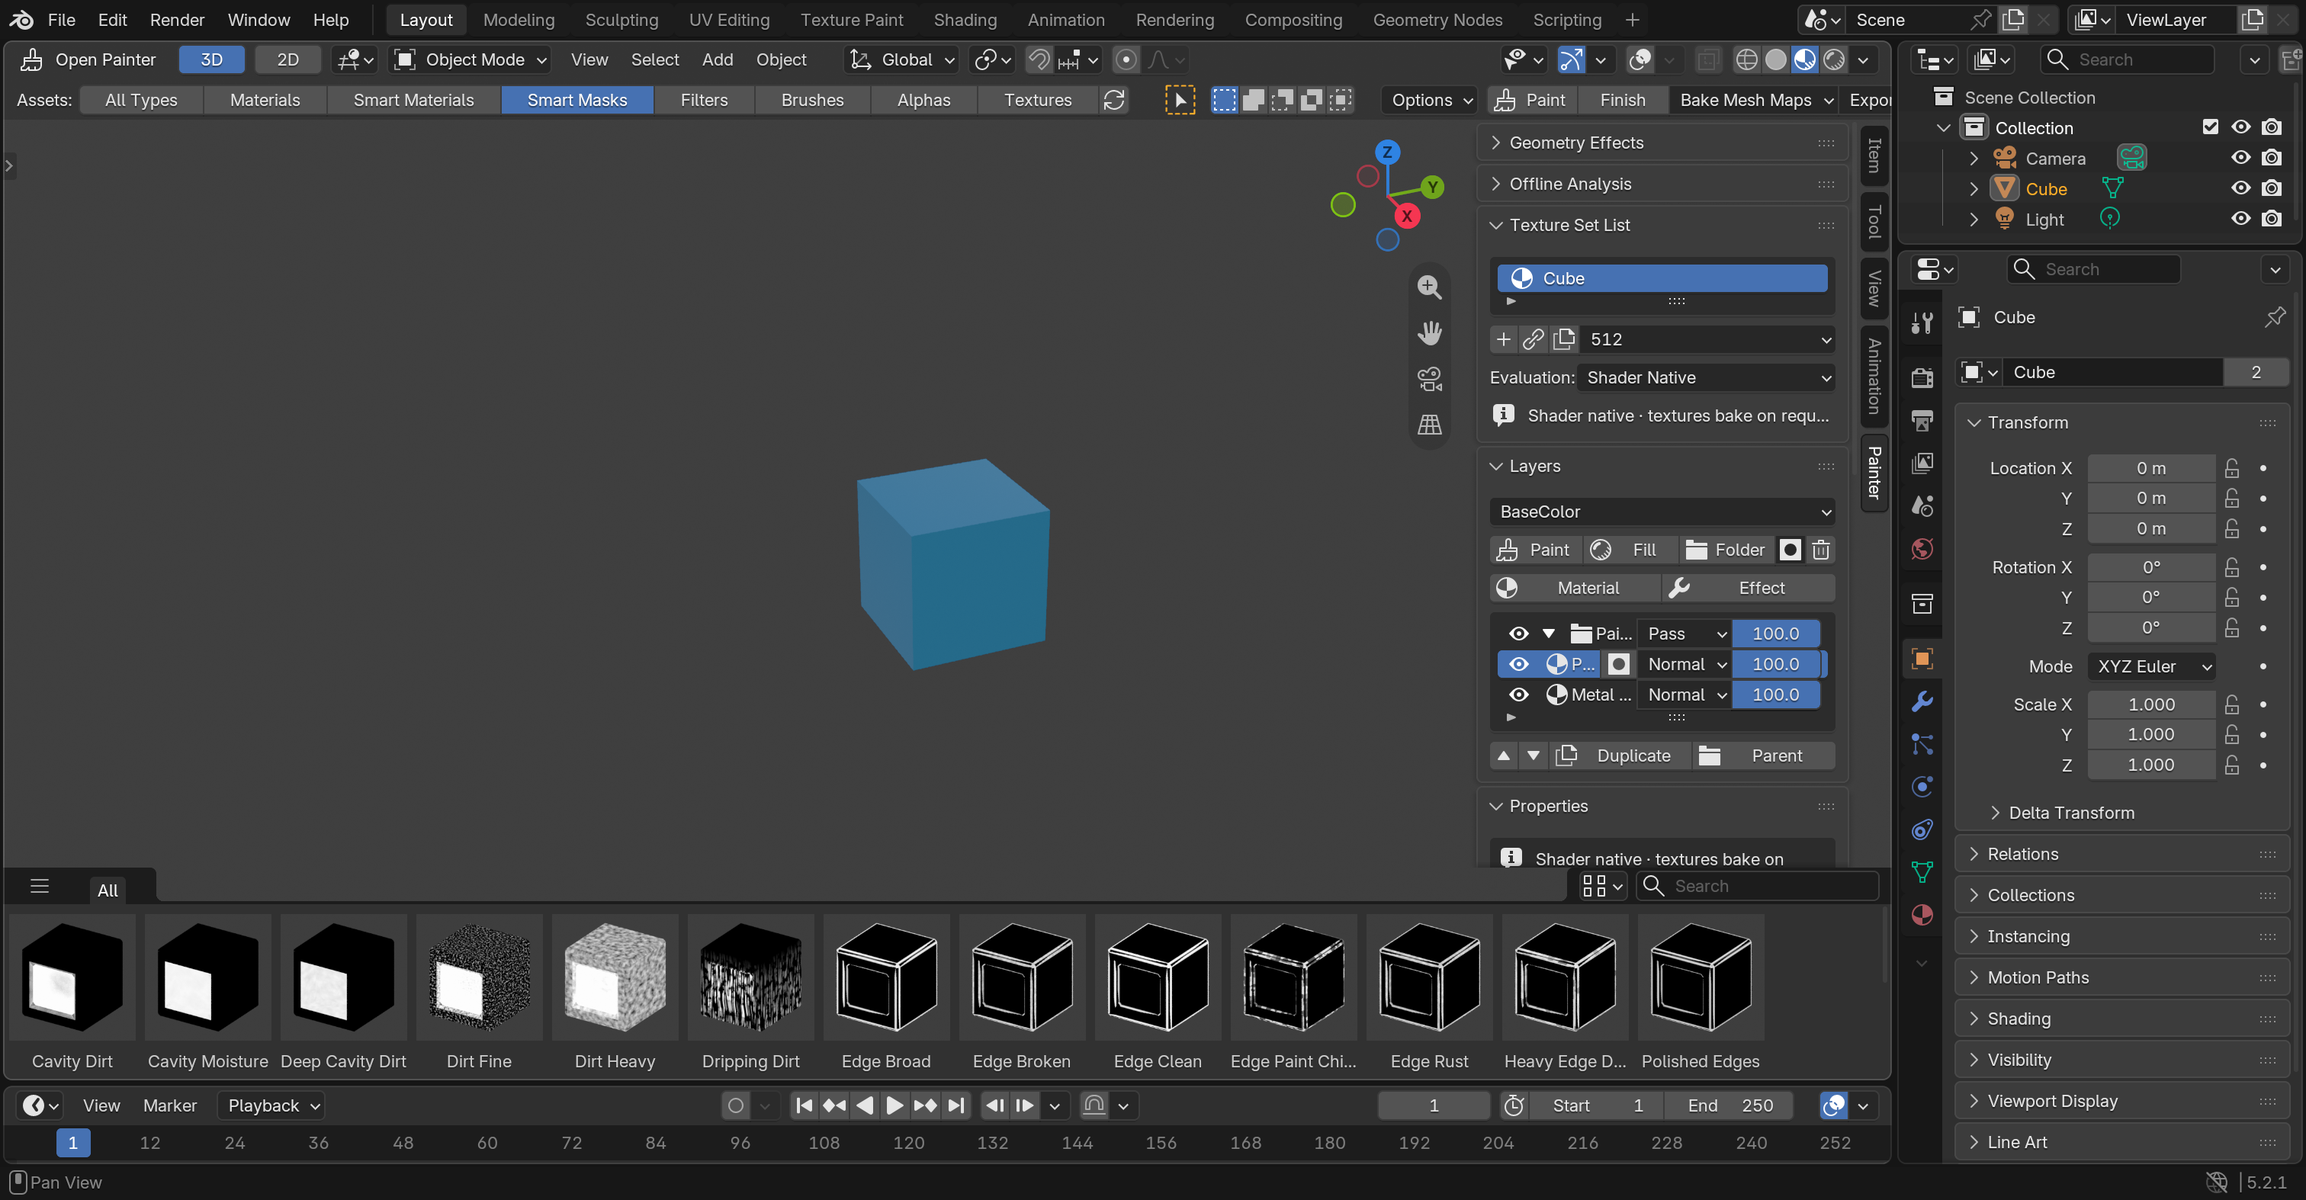
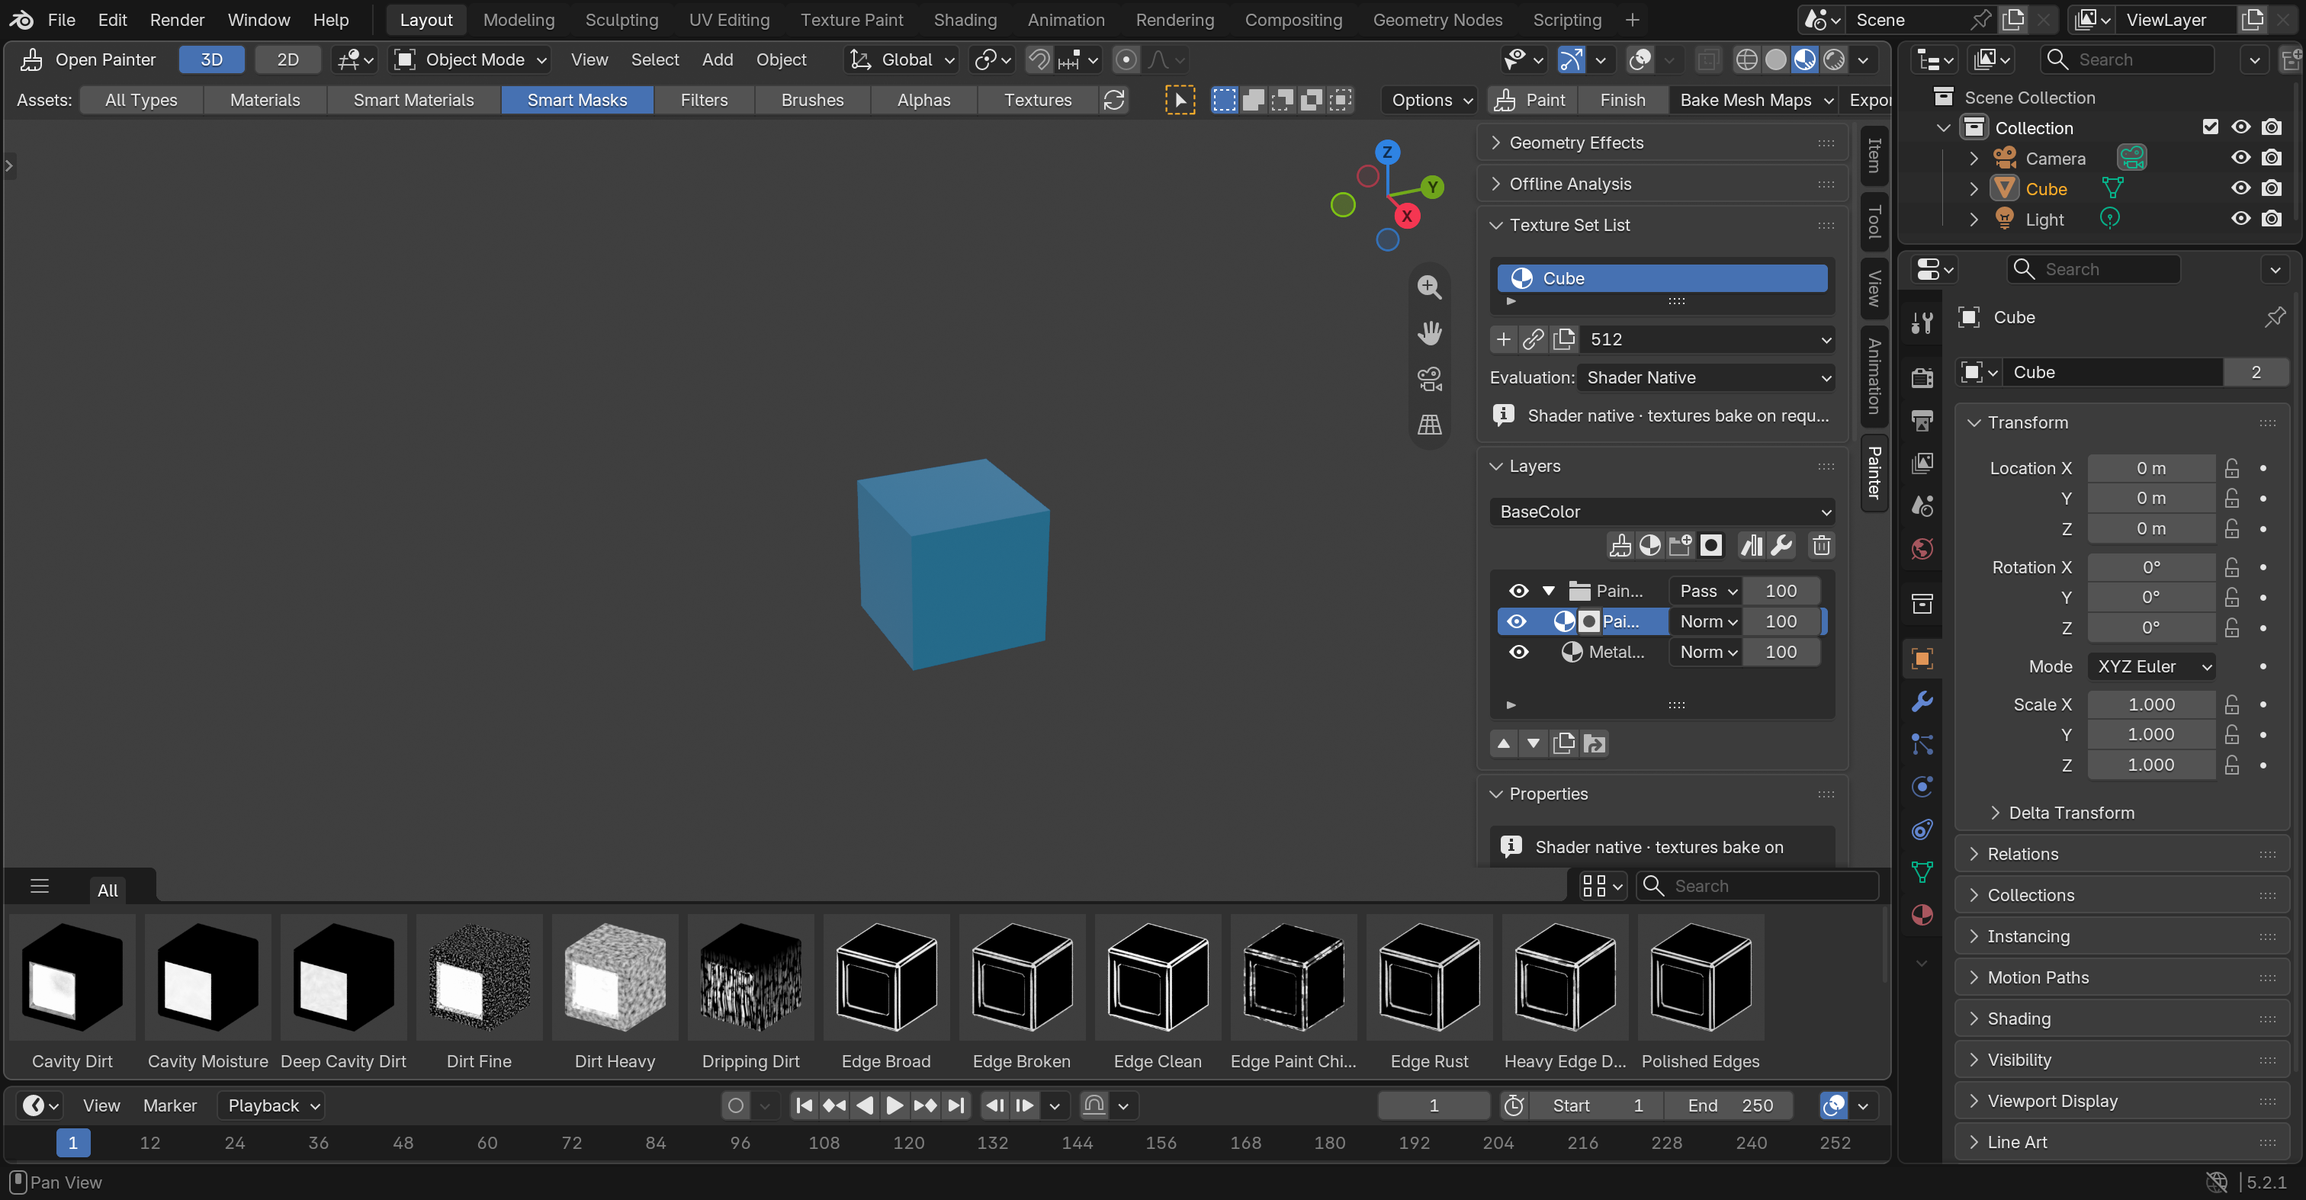
latest updates

Changed region(s): [[0.6217, 0.4358, 0.8082, 0.716]]

diff --git a/tests/integration/layer_drag_ui.py b/tests/integration/layer_drag_ui.py
@@ -1,0 +1,216 @@
+"""Real-window regression: layers reorder by pressing and dragging their rows in
+the native Painter sidebar, sideways motion changes the folder, Esc cancels and
+a plain click still selects.
+
+Launch: blender --factory-startup --enable-event-simulate --python tests/integration/layer_drag_ui.py
+OP_LAYER_DRAG_UI_REPORT selects the JSON report.
+"""
+import json
+import os
+import sys
+import time
+import traceback
+from pathlib import Path
+
+import bpy
+
+ROOT = Path(__file__).resolve().parents[2]
+sys.path.insert(0, str(ROOT / 'src'))
+import open_painter
+from open_painter.core import layer_stack as stack
+from open_painter.ui import native
+from open_painter.ui.dock import state as dock_state
+
+REPORT = Path(os.environ.get('OP_LAYER_DRAG_UI_REPORT', '/private/tmp/op-layer-drag-ui.json'))
+report = {'started': time.monotonic(), 'steps': [], 'errors': []}
+env = {}
+
+
+def finish(status):
+    report['elapsed_s'] = round(time.monotonic() - report.pop('started'), 2)
+    REPORT.parent.mkdir(parents=True, exist_ok=True)
+    REPORT.write_text(json.dumps(dict(status=status, blender=bpy.app.version_string, **report), indent=2) + '\n')
+    print('LAYER_DRAG_UI_' + status, REPORT, flush=True)
+    bpy.ops.wm.quit_blender()
+
+
+def texture_set():
+    return bpy.context.scene.open_painter.texture_sets[0]
+
+
+def visible():
+    ts = texture_set()
+    return [(ts.layers[index].name, depth) for index, depth in stack.visible_rows(ts)]
+
+
+def by_name(name):
+    return next(layer for layer in texture_set().layers if layer.name == name)
+
+
+def mouse(kind, value, x, y):
+    env['window'].event_simulate(type=kind, value=value, x=int(x), y=int(y))
+
+
+def row_centre(index):
+    # Rows are one widget unit tall from the top edge of the list box.
+    return env['top'] - env['pad'] - env['unit'] // 2 - index * env['unit']
+
+
+def press(index):
+    x, y = env['x'], row_centre(index)
+    env['window'].cursor_warp(x, y)
+    mouse('MOUSEMOVE', 'NOTHING', x, y)
+    yield .3
+    mouse('LEFTMOUSE', 'PRESS', x, y)
+    env['held'] = (x, y)
+    yield .3
+
+
+def move(rows=0, columns=0):
+    x0, y0 = env['held']
+    x, y = x0 + columns * env['unit'], y0 - rows * env['unit']
+    for step in range(1, 5):
+        mouse('MOUSEMOVE', 'NOTHING', x0 + (x - x0) * step / 4, y0 + (y - y0) * step / 4)
+    env['held'] = (x, y)
+    yield .3
+
+
+def release():
+    mouse('LEFTMOUSE', 'RELEASE', *env['held'])
+    yield .4
+
+
+def steps():
+    assert not bpy.app.background, 'This regression requires a real Blender GUI'
+    open_painter.register()
+    bpy.context.preferences.view.show_splash = False
+    window = env['window'] = bpy.context.window
+    area = env['area'] = max((a for a in window.screen.areas if a.type == 'VIEW_3D'), key=lambda a: a.width * a.height)
+    region = next(r for r in area.regions if r.type == 'WINDOW')
+    with bpy.context.temp_override(window=window, area=area, region=region):
+        bpy.ops.open_painter.open_editor()
+        bpy.ops.open_painter.texture_set(action='ADD')
+    ts = texture_set()
+    ts.resolution = '512'
+    for name in ['Bottom', 'Middle', 'Top']:
+        stack.add(ts, 'FILL', name)
+    assert visible() == [('Top', 0), ('Middle', 0), ('Bottom', 0)]
+    yield 1.0
+    sidebar = env['sidebar'] = next(r for r in area.regions if r.type == 'UI' and r.width > 10)
+    sidebar.active_panel_category = 'Painter'
+    sidebar.tag_redraw()
+    yield .5
+    system = bpy.context.preferences.system
+    env['unit'] = int(round(18 * system.ui_scale) + 2 * system.pixel_size)
+    env['pad'] = int(3 * system.pixel_size)
+    # Over the name text, past the visibility and type icons of a nested row.
+    env['x'] = sidebar.x + int(sidebar.width * .32)
+    found = []
+    for y in range(sidebar.y + sidebar.height - 1, sidebar.y, -2):
+        window.cursor_warp(env['x'], y)
+        with bpy.context.temp_override(window=window, area=area, region=sidebar):
+            ui_list = bpy.context.ui_list
+        if ui_list is not None and ui_list.bl_idname == 'OP_UL_native_layers':
+            found.append(y)
+    assert found, 'the layer list is not under the sidebar'
+    env['top'] = max(found)
+    report['list_px'] = (min(found), max(found))
+    report['unit'] = env['unit']
+    # The first press after launch only focuses the window.
+    yield from press(0)
+    yield from release()
+
+    yield from press(0)
+    assert stack.active(ts).name == 'Top'
+    yield from move(rows=2)
+    assert visible() == [('Middle', 0), ('Bottom', 0), ('Top', 0)], visible()
+    assert native._drag['active']
+    yield from release()
+    assert not native._drag['active']
+    assert visible() == [('Middle', 0), ('Bottom', 0), ('Top', 0)], visible()
+    assert stack.active(ts).name == 'Top'
+    report['steps'].append('drag down')
+
+    yield from press(2)
+    yield from move(rows=-2)
+    yield from release()
+    assert visible() == [('Top', 0), ('Middle', 0), ('Bottom', 0)], visible()
+    report['steps'].append('drag up')
+
+    ts.active_layer = stack.index_of(ts, by_name('Top').id)
+    folder = stack.add(ts, 'FOLDER', 'Folder')
+    folder_id = folder.id
+    assert visible() == [('Folder', 0), ('Top', 0), ('Middle', 0), ('Bottom', 0)]
+    yield .5
+    yield from press(1)
+    yield from move(columns=1.5)
+    yield from release()
+    assert by_name('Top').parent_id == folder_id
+    assert visible() == [('Folder', 0), ('Top', 1), ('Middle', 0), ('Bottom', 0)], visible()
+    report['steps'].append('drag into folder')
+
+    saved = stack.arrangement(ts)
+    yield from press(2)
+    yield from move(rows=-2)
+    assert visible()[0] == ('Middle', 0), visible()
+    mouse('ESC', 'PRESS', *env['held'])
+    mouse('ESC', 'RELEASE', *env['held'])
+    yield .3
+    assert not native._drag['active']
+    assert stack.arrangement(ts) == saved
+    assert visible() == [('Folder', 0), ('Top', 1), ('Middle', 0), ('Bottom', 0)], visible()
+    yield from release()
+    assert stack.arrangement(ts) == saved
+    report['steps'].append('cancel')
+
+    yield from press(3)
+    yield from release()
+    assert stack.active(ts).name == 'Bottom'
+    assert dock_state.get(area).selected_layers == {by_name('Bottom').id}
+    assert not dock_state.get(area).mask_selected
+    assert not native._drag['active']
+    report['steps'].append('click selects')
+
+    # Ctrl-click (like a double-click) edits a name in place, as in
+    # Blender's own lists; the press must not reach the drag operator.
+    x, y = env['x'], row_centre(3)
+    env['window'].event_simulate(type='LEFTMOUSE', value='PRESS', ctrl=True, x=x, y=y)
+    env['window'].event_simulate(type='LEFTMOUSE', value='RELEASE', ctrl=True, x=x, y=y)
+    yield .3
+    assert not native._drag['active']
+    mouse('BACK_SPACE', 'PRESS', x, y)
+    mouse('BACK_SPACE', 'RELEASE', x, y)
+    for key, char in (('B', 'B'), ('A', 'a'), ('S', 's'), ('E', 'e')):
+        env['window'].event_simulate(type=key, value='PRESS', unicode=char, x=x, y=y)
+        env['window'].event_simulate(type=key, value='RELEASE', x=x, y=y)
+    mouse('RET', 'PRESS', x, y)
+    mouse('RET', 'RELEASE', x, y)
+    yield .4
+    assert [layer.name for layer in ts.layers if layer.parent_id == ''] == ['Base', 'Middle', 'Folder'], [layer.name for layer in ts.layers]
+    assert not native._drag['active']
+    report['steps'].append('ctrl-click renames')
+
+    channel = stack.channel_for(by_name('Base'), 'BASE_COLOR')
+    channel.opacity_percent = 40
+    assert abs(channel.opacity - .4) < 1e-6
+    shot = REPORT.with_suffix('.png')
+    bpy.ops.screen.screenshot(filepath=str(shot))
+    report['screenshot'] = str(shot)
+    yield .3
+
+
+generator = steps()
+
+
+def poll():
+    try:
+        return next(generator)
+    except StopIteration:
+        finish('PASS')
+    except Exception:
+        report['errors'].append(traceback.format_exc())
+        traceback.print_exc()
+        finish('FAIL')
+
+
+bpy.app.timers.register(poll, first_interval=1.0)

diff --git a/tests/integration/layer_drop.py b/tests/integration/layer_drop.py
@@ -1,0 +1,106 @@
+"""Drop targets, placement and cancellation for mouse reordering of the stack."""
+import sys
+from pathlib import Path
+import bpy
+sys.path.insert(0, str(Path(__file__).resolve().parents[2] / 'src'))
+import open_painter
+from open_painter.core import layer_stack as stack, texture_set_manager as sets
+open_painter.register()
+ts = sets.create(bpy.context.scene, 'Layer drop', 512)
+
+
+def by_name(name):
+    return next(layer for layer in ts.layers if layer.name == name)
+
+
+def visible():
+    return [(ts.layers[index].name, depth) for index, depth in stack.visible_rows(ts)]
+
+
+for name in ['Bottom', 'Middle', 'Top']:
+    stack.add(ts, 'FILL', name)
+assert visible() == [('Top', 0), ('Middle', 0), ('Bottom', 0)]
+
+# A flat stack: one candidate per gap, above the following row or at the end.
+targets = stack.drop_targets(ts, by_name('Top').id)
+assert [[(depth, kind) for depth, _, kind, _ in gap] for gap in targets] == [
+    [(0, 'ABOVE')], [(0, 'BELOW')], [(0, 'BELOW')]]
+assert stack.slot(ts, by_name('Top').id) == (0, 0)
+stack.place(ts, by_name('Top').id, targets[2][0])
+assert visible() == [('Middle', 0), ('Bottom', 0), ('Top', 0)]
+assert stack.active(ts).name == 'Top'
+assert stack.slot(ts, by_name('Top').id) == (2, 0)
+stack.place(ts, by_name('Top').id, stack.drop_targets(ts, by_name('Top').id)[0][0])
+assert visible() == [('Top', 0), ('Middle', 0), ('Bottom', 0)]
+
+# A folder above Top: the gap below it offers its first-child slot and root.
+ts.active_layer = stack.index_of(ts, by_name('Top').id)
+folder = stack.add(ts, 'FOLDER', 'Folder')
+folder_id = folder.id
+assert visible() == [('Folder', 0), ('Top', 0), ('Middle', 0), ('Bottom', 0)]
+targets = stack.drop_targets(ts, by_name('Top').id)
+assert [[(depth, kind) for depth, _, kind, _ in gap] for gap in targets] == [
+    [(0, 'ABOVE')], [(1, 'FIRST_CHILD'), (0, 'BELOW')], [(0, 'BELOW')], [(0, 'BELOW')]]
+assert stack.slot(ts, by_name('Top').id) == (1, 0)
+stack.place(ts, by_name('Top').id, targets[1][0])
+assert by_name('Top').parent_id == folder_id
+assert visible() == [('Folder', 0), ('Top', 1), ('Middle', 0), ('Bottom', 0)]
+
+# Middle joins the folder below Top, then the closing edge of the folder
+# offers both depths and Top leaves through it.
+targets = stack.drop_targets(ts, by_name('Middle').id)
+assert [[(depth, kind) for depth, _, kind, _ in gap] for gap in targets] == [
+    [(0, 'ABOVE')], [(1, 'FIRST_CHILD')], [(1, 'BELOW'), (0, 'BELOW')], [(0, 'BELOW')]]
+stack.place(ts, by_name('Middle').id, targets[2][0])
+assert visible() == [('Folder', 0), ('Top', 1), ('Middle', 1), ('Bottom', 0)]
+targets = stack.drop_targets(ts, by_name('Top').id)
+assert [[(depth, kind) for depth, _, kind, _ in gap] for gap in targets] == [
+    [(0, 'ABOVE')], [(1, 'FIRST_CHILD')], [(1, 'BELOW'), (0, 'BELOW')], [(0, 'BELOW')]]
+stack.place(ts, by_name('Top').id, targets[2][1])
+assert by_name('Top').parent_id == ''
+assert visible() == [('Folder', 0), ('Middle', 1), ('Top', 0), ('Bottom', 0)]
+
+# A folder drags with its subtree, never into itself, and a collapsed folder
+# is passed as one row.
+targets = stack.drop_targets(ts, folder_id)
+assert [[(depth, kind) for depth, _, kind, _ in gap] for gap in targets] == [
+    [(0, 'ABOVE')], [(0, 'BELOW')], [(0, 'BELOW')]]
+stack.place(ts, folder_id, targets[2][0])
+assert visible() == [('Top', 0), ('Bottom', 0), ('Folder', 0), ('Middle', 1)]
+by_name('Folder').expanded = False
+assert visible() == [('Top', 0), ('Bottom', 0), ('Folder', 0)]
+targets = stack.drop_targets(ts, by_name('Bottom').id)
+assert [[(depth, kind) for depth, _, kind, _ in gap] for gap in targets] == [
+    [(0, 'ABOVE')], [(0, 'BELOW')], [(0, 'BELOW')]]
+stack.place(ts, by_name('Bottom').id, targets[2][0])
+assert visible() == [('Top', 0), ('Folder', 0), ('Bottom', 0)]
+by_name('Folder').expanded = True
+assert visible() == [('Top', 0), ('Folder', 0), ('Middle', 1), ('Bottom', 0)]
+
+# An empty expanded folder still accepts a first child.
+stack.place(ts, by_name('Middle').id, stack.drop_targets(ts, by_name('Middle').id)[3][0])
+assert visible() == [('Top', 0), ('Folder', 0), ('Bottom', 0), ('Middle', 0)]
+targets = stack.drop_targets(ts, by_name('Top').id)
+assert [[(depth, kind) for depth, _, kind, _ in gap] for gap in targets] == [
+    [(0, 'ABOVE')], [(1, 'FIRST_CHILD'), (0, 'BELOW')], [(0, 'BELOW')], [(0, 'BELOW')]]
+stack.place(ts, by_name('Top').id, targets[1][0])
+assert visible() == [('Folder', 0), ('Top', 1), ('Bottom', 0), ('Middle', 0)]
+
+# Cancelling restores order and parents exactly, and the edit serial moved.
+saved = stack.arrangement(ts)
+serial = ts.edit_serial
+stack.place(ts, by_name('Middle').id, stack.drop_targets(ts, by_name('Middle').id)[1][0])
+assert visible() == [('Folder', 0), ('Middle', 1), ('Top', 1), ('Bottom', 0)]
+stack.restore_arrangement(ts, saved)
+assert stack.arrangement(ts) == saved
+assert visible() == [('Folder', 0), ('Top', 1), ('Bottom', 0), ('Middle', 0)]
+assert ts.edit_serial > serial
+
+# The opacity control is a whole percent backed by the float channel opacity.
+channel = stack.channel_for(by_name('Top'), 'BASE_COLOR')
+channel.opacity_percent = 35
+assert abs(channel.opacity - .35) < 1e-6 and channel.opacity_percent == 35
+channel.opacity = .333
+assert channel.opacity_percent == 33
+open_painter.unregister()
+print('LAYER_DROP_PASS', flush=True)

diff --git a/README.md b/README.md
@@ -77,10 +77,13 @@ The native Painter toolbar has **Materials, Smart Materials, Smart Masks, Filter
    **Asset Library** in the sidebar contains portable smart-material import, save and library commands.
 9. Expand **Export Textures**, choose a directory and an export preset, then export.
 
-Layers are displayed top-first and evaluated bottom-first. Use disclosure arrows for folders and
-native arrow buttons to reorder layers. The Parent button moves the selected layer into a folder;
-Delete removes a folder and its descendants. Undo restores them. Folder duplication copies children
-and their paint images. The native panel currently uses single selection and operator-based parenting.
+Layers are displayed top-first and evaluated bottom-first. Press a row to select its content and
+drag it up or down to move the layer (a folder moves with its contents); move the mouse sideways
+while dragging to change how deeply the layer nests, and press Esc to put it back. The arrow
+buttons under the list move one step at a time, and the Parent button moves the selected layer into
+a chosen folder. Each row shows the blend mode and opacity of the channel selected above the list;
+double-click a name to rename it. Delete removes a folder and its descendants. Undo restores them.
+Folder duplication copies children and their paint images. The native panel uses single selection.
 
 **T** toggles Blender’s native left toolbar. **N** toggles the right sidebar containing Painter’s
 Texture Set List, Layers and Properties. These are Blender’s standard shortcuts, with no custom
@@ -176,7 +179,7 @@ unused managed datablocks. Undo covers project edits; exported and library files
   Baking is synchronous and uses Cycles CPU for predictable behavior.
 - Shared mesh datablocks require an explicit single-user copy. Material slot insertion/reordering after
   assignment can invalidate references; use Validate Project and reassign the affected slots.
-- Painter uses native Blender panels, properties, menus and an Asset Shelf, arranged around the native viewport. Asset activation is click-based; layer drag/drop and multi-selection are not implemented in this native interface. The original N-panel remains available outside Painter.
+- Painter uses native Blender panels, properties, menus and an Asset Shelf, arranged around the native viewport. Asset activation is click-based. Layers reorder by dragging their rows; multi-selection is not implemented in this native interface. The original N-panel remains available outside Painter.
 - Anchor points reference within one texture set and ignore projection and UV transforms; folder channels cannot be anchored. A missing anchor evaluates as neutral and is reported, not repaired.
 - Smart-material import is limited to 512 MiB and 256 layers. External paint textures are bundled as EXR;
   missing generator maps must be baked in the destination texture set.

diff --git a/ARCHITECTURE.md b/ARCHITECTURE.md
@@ -146,6 +146,16 @@ sets, layers and properties occupy the right sidebar; assets use the bottom shel
 shortcuts control the toolbar/sidebar. The modeling toolbar starts hidden. Legacy GPU dock drawing
 and modal input routing remain historical code paths and do not render the active interface.
 
+Layer rows reorder by mouse without custom drawing or event interception. Blender applies a list
+row on mouse press, which updates `active_layer`; that property's update callback, when the row
+under the mouse belongs to the Painter layer list (`context.ui_list`), invokes a modal operator
+from the same press. The operator passes events through until the mouse leaves the drag threshold,
+then maps vertical motion to a gap between the other visible rows and horizontal motion to a
+nesting depth among the candidates `layer_stack.drop_targets` lists for that gap, repositioning the
+layer live. Release finishes as one undo step; Esc restores the saved arrangement. The row widgets
+are non-interactive text and icons so the press reaches the list row itself; the blend menu,
+opacity field and mask button keep their own behaviour.
+
 Native widget styling follows Blender preferences. Region defaults are applied on entry, rather
 than continuously overriding the artist's visibility or shading choices. Selecting another editor
 type detaches the adapter; registration does not create workspaces or rearrange other areas.
